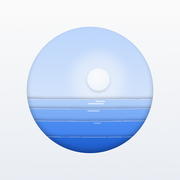
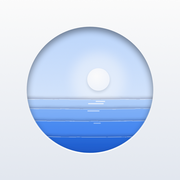
feat: give the demos the app's depth
Tabs' track cut in with a lifted thumb, accent buttons lift in their own blue,
unread and account dots as tiny windows, and the home screen icon with the
deeper window.

diff --git a/src/styles/site.css b/src/styles/site.css
@@ -18,6 +18,14 @@
   --acc-2:#1f9c8a;
   --acc-3:#7b66e0;
   --shadow:0 18px 40px -18px rgba(10,20,40,.28),0 4px 12px -6px rgba(10,20,40,.12);
+  /* A little depth, kept faint as in the app: what lies on top lifts (soft shadow, light along its top edge),
+     what holds things is cut in (a shadow under its top edge), dots are tiny windows. --ink is the shadows' colour,
+     --raised fills what lifts; at night shadows hardly show, so lifted things are a shade lighter instead */
+  --ink:#142036;
+  --raised:#ffffff;
+  --lit:inset 0 1px 0 rgba(255,255,255,.35);
+  --sunk:inset 0 1.5px 1.5px -.5px rgba(20,32,54,.08);
+  --lift:0 1px 2px rgba(20,32,54,.1);
   --f-ui:"Inter Variable",system-ui,-apple-system,"Segoe UI",Roboto,sans-serif;
   --f-read:"Literata Variable",Georgia,serif;
   /* One curve for what eases out, as in the app */
@@ -26,7 +34,8 @@
 @media (prefers-color-scheme: dark){:root{
   --bg:#141923;--bg-soft:#1f2532;--fg:#e5e9f1;--fg-2:#b9c2d3;--fg-3:#8792a7;--line:#242b39;--stripe:#4b566c;
   --accent:#6ab2ff;--accent-fill:#1a6fe0;--accent-soft:#15325a;
-  --shadow:0 18px 40px -18px rgba(0,0,0,.7),0 4px 12px -6px rgba(0,0,0,.5);color-scheme:dark}}
+  --shadow:0 18px 40px -18px rgba(0,0,0,.7),0 4px 12px -6px rgba(0,0,0,.5);
+  --ink:#000;--raised:#2b3343;--lit:inset 0 1px 0 rgba(255,255,255,.07);--sunk:inset 0 1.5px 1.5px -.5px rgba(0,0,0,.32);--lift:0 1px 2px rgba(0,0,0,.3);color-scheme:dark}}
 
 *{box-sizing:border-box}
 /* Nothing loads in late, so the browser never needs to shift the page: a demo that shrinks must not scroll it */
@@ -125,11 +134,13 @@ main{position:relative;z-index:1;max-width:620px;margin:0 auto;padding:0 max(24p
 .compose .send{display:flex;flex-wrap:wrap;justify-content:space-between;align-items:center;gap:12px;padding:12px 12px 12px 20px;border-top:1px solid var(--line)}
 .compose .fine{flex:1 1 180px;text-wrap:balance;font-size:13px;line-height:1.45;color:var(--fg-3)}
 .btn{display:inline-flex;align-items:center;min-height:44px;border-radius:999px;padding:0 20px;white-space:nowrap;background:var(--accent-fill);color:#fff;font-weight:600}
+/* An accent button lifts: a soft shadow in its own blue and light along its top edge */
+.btn,.work .answers .yes{--glow:0 2px 6px -1px color-mix(in srgb,var(--accent-fill) 40%,transparent),inset 0 1px 0 rgba(255,255,255,.25);box-shadow:var(--glow)}
 .btn:hover{text-decoration:none;filter:brightness(1.06)}
 
 /* One button in thumb reach; it steps aside once the note to the author is in view */
 .bbar{position:fixed;left:0;right:0;bottom:calc(16px + env(safe-area-inset-bottom,0px));z-index:20;display:flex;justify-content:center;pointer-events:none;transition:opacity .3s var(--ease),transform .3s var(--ease)}
-.bbar .btn{pointer-events:auto;min-height:48px;padding:0 24px;font-size:15px;box-shadow:0 6px 20px rgba(10,30,70,.18)}
+.bbar .btn{pointer-events:auto;min-height:48px;padding:0 24px;font-size:15px;box-shadow:var(--glow),0 6px 20px rgba(10,30,70,.18)}
 .bbar.away{opacity:0;transform:translateY(12px)}
 .bbar.away .btn{pointer-events:none;visibility:hidden;transition:visibility 0s .3s}
 
@@ -146,7 +157,9 @@ footer a{text-decoration:underline;text-underline-offset:.2em}
 .demo .dl{display:grid;gap:0;border-radius:16px;background:var(--bg);overflow:hidden}
 /* A row: sender and time, then the subject; unread hangs a 7px dot before the sender */
 .demo .di{position:relative;display:grid;gap:2px;padding:13px 14px 13px 26px;background:var(--bg)}
-.demo .di.unread::before{content:"";position:absolute;left:11px;top:20px;width:7px;height:7px;border-radius:50%;background:var(--water)}
+.demo .di.unread::before{content:"";position:absolute;left:11px;top:20px;width:7px;height:7px;border-radius:50%;--c:var(--water);background:var(--window)}
+/* A round mark as a tiny window: darker under its top edge, lighter below */
+.demo .di.unread::before,.dots i,.boxes .dot{--window:linear-gradient(color-mix(in srgb,var(--c) 70%,var(--ink)),var(--c) 50%,color-mix(in srgb,var(--c) 80%,#fff))}
 .demo .l1{display:flex;align-items:baseline;gap:8px}
 .demo .dn{flex:1;min-width:0;font-size:16px;line-height:21px;font-weight:500;color:var(--fg);white-space:nowrap;overflow:hidden;text-overflow:ellipsis}
 .demo .unread .dn{font-weight:650}
@@ -155,9 +168,9 @@ footer a{text-decoration:underline;text-underline-offset:.2em}
 .demo .l2{font-size:15px;line-height:20px;color:var(--fg);white-space:nowrap;overflow:hidden;text-overflow:ellipsis}
 .demo .unread .l2{font-weight:550;color:var(--fg)}
 .dots{display:inline-flex;padding-left:3px}
-.dots i{width:11px;height:11px;margin-left:-3px;border-radius:50%;border:2px solid var(--bg);background:var(--acc-1)}
-.dots i:nth-child(2){background:var(--acc-2)}
-.dots i:nth-child(3){background:var(--acc-3)}
+.dots i{width:11px;height:11px;margin-left:-3px;border-radius:50%;border:2px solid var(--bg);--c:var(--acc-1);background:var(--window)}
+.dots i:nth-child(2){--c:var(--acc-2)}
+.dots i:nth-child(3){--c:var(--acc-3)}
 /* Inbox Zero: rows are swiped away as letters are; the last one leaves still water */
 .zero .swipe{position:relative;display:grid;overflow:hidden}
 .zero .swipe>*{grid-area:1/1}
@@ -182,14 +195,14 @@ footer a{text-decoration:underline;text-underline-offset:.2em}
 .zero .deb{margin-top:10px;border:0;background:none;color:var(--accent);font-weight:600;font-size:14px;min-height:44px;padding:0 12px;cursor:pointer;border-radius:999px}
 .zero .deb:hover{background:var(--bg-soft)}
 /* The app's segmented control: a grey track, a paper thumb, the label firms up when chosen */
-.tabs,.seg{position:relative;display:flex;gap:0;padding:3px;border-radius:14px;background:var(--line)}
+.tabs,.seg{position:relative;display:flex;gap:0;padding:3px;border-radius:14px;background:var(--line);box-shadow:var(--sunk)}
 .tabs{margin-bottom:6px}
 .seg{background:var(--bg-soft);max-width:260px}
 .tabs label,.seg label{flex:1 1 0;min-width:0;position:relative;display:flex}
 .tabs input,.seg input{position:absolute;opacity:0;pointer-events:none}
 .tabs label>span,.seg label>span{flex:1;display:flex;align-items:center;justify-content:center;gap:6px;min-height:34px;padding:0 4px;border-radius:11px;font-size:14px;line-height:1.15;text-align:center;white-space:nowrap;min-width:0;font-weight:500;color:var(--fg-3);cursor:pointer;transition:background-color .25s var(--ease),color .25s var(--ease),box-shadow .25s var(--ease)}
 /* One paper thumb that slides to the choice */
-.tabs::before,.seg::before{content:"";position:absolute;top:3px;bottom:3px;left:calc(3px + (100% - 6px) / var(--n,2) * var(--i,0));width:calc((100% - 6px) / var(--n,2));border-radius:11px;background:var(--bg);box-shadow:0 1px 2px rgba(10,20,40,.12);transition:left .3s var(--ease)}
+.tabs::before,.seg::before{content:"";position:absolute;top:3px;bottom:3px;left:calc(3px + (100% - 6px) / var(--n,2) * var(--i,0));width:calc((100% - 6px) / var(--n,2));border-radius:11px;background:var(--raised);box-shadow:var(--lift),var(--lit);transition:left .3s var(--ease)}
 .tabs input:checked+span,.seg input:checked+span{color:var(--fg);font-weight:600}
 .tabs input:focus-visible+span,.seg input:focus-visible+span{outline:2px solid var(--accent);outline-offset:-2px}
 .tabs .tl{min-width:0;overflow:hidden;text-overflow:ellipsis}
@@ -228,9 +241,9 @@ footer a{text-decoration:underline;text-underline-offset:.2em}
 .boxes .accs{gap:18px;color:var(--fg-2);font-size:15px}
 .boxes .accs span{display:flex;align-items:center;gap:7px}
 .boxes .ic{width:20px;height:20px;flex:none;margin:0 2px;color:var(--fg-3)}
-.boxes .dot{width:9px;height:9px;border-radius:50%;flex:none;background:var(--acc-1)}
-.boxes .dot.a2{background:var(--acc-2)}
-.boxes .dot.a3{background:var(--acc-3)}
+.boxes .dot{width:9px;height:9px;border-radius:50%;flex:none;--c:var(--acc-1);background:var(--window)}
+.boxes .dot.a2{--c:var(--acc-2)}
+.boxes .dot.a3{--c:var(--acc-3)}
 /* Hidden images: the app's grey bar with Show; the image comes when asked */
 .privacy .lh{padding:12px 14px;border-radius:14px;background:var(--bg)}
 .demo.privacy .ls{font-weight:650;font-size:16px;line-height:21px;color:var(--fg)}
@@ -296,7 +309,7 @@ footer a{text-decoration:underline;text-underline-offset:.2em}
 .hand .v{display:flex;flex-direction:column;min-height:0}
 .hand .ht{padding:18px 16px 6px;font-size:22px;line-height:28px;font-weight:700;letter-spacing:-.01em;color:var(--fg)}
 .hand .hl .di{background:none}
-.hand .dock{display:flex;align-items:center;justify-content:space-between;gap:8px;margin:auto 16px 16px;padding:0 18px;min-height:52px;border-radius:999px;background:var(--bg);box-shadow:0 2px 10px rgba(10,20,40,.12)}
+.hand .dock{display:flex;align-items:center;justify-content:space-between;gap:8px;margin:auto 16px 16px;padding:0 18px;min-height:52px;border-radius:999px;background:var(--bg);box-shadow:0 2px 10px color-mix(in srgb,var(--ink) 10%,transparent),var(--lit)}
 .hand .dock svg{width:24px;height:24px;fill:none;stroke:var(--fg-2);stroke-width:2;stroke-linecap:round;stroke-linejoin:round}
 .hand .dock svg:last-child{stroke:var(--accent)}
 .hand .quote{margin:16px 16px 0;padding:10px 12px;border-radius:12px;background:var(--bg-soft);font-size:13px;color:var(--fg-3);white-space:nowrap;overflow:hidden;text-overflow:ellipsis}
